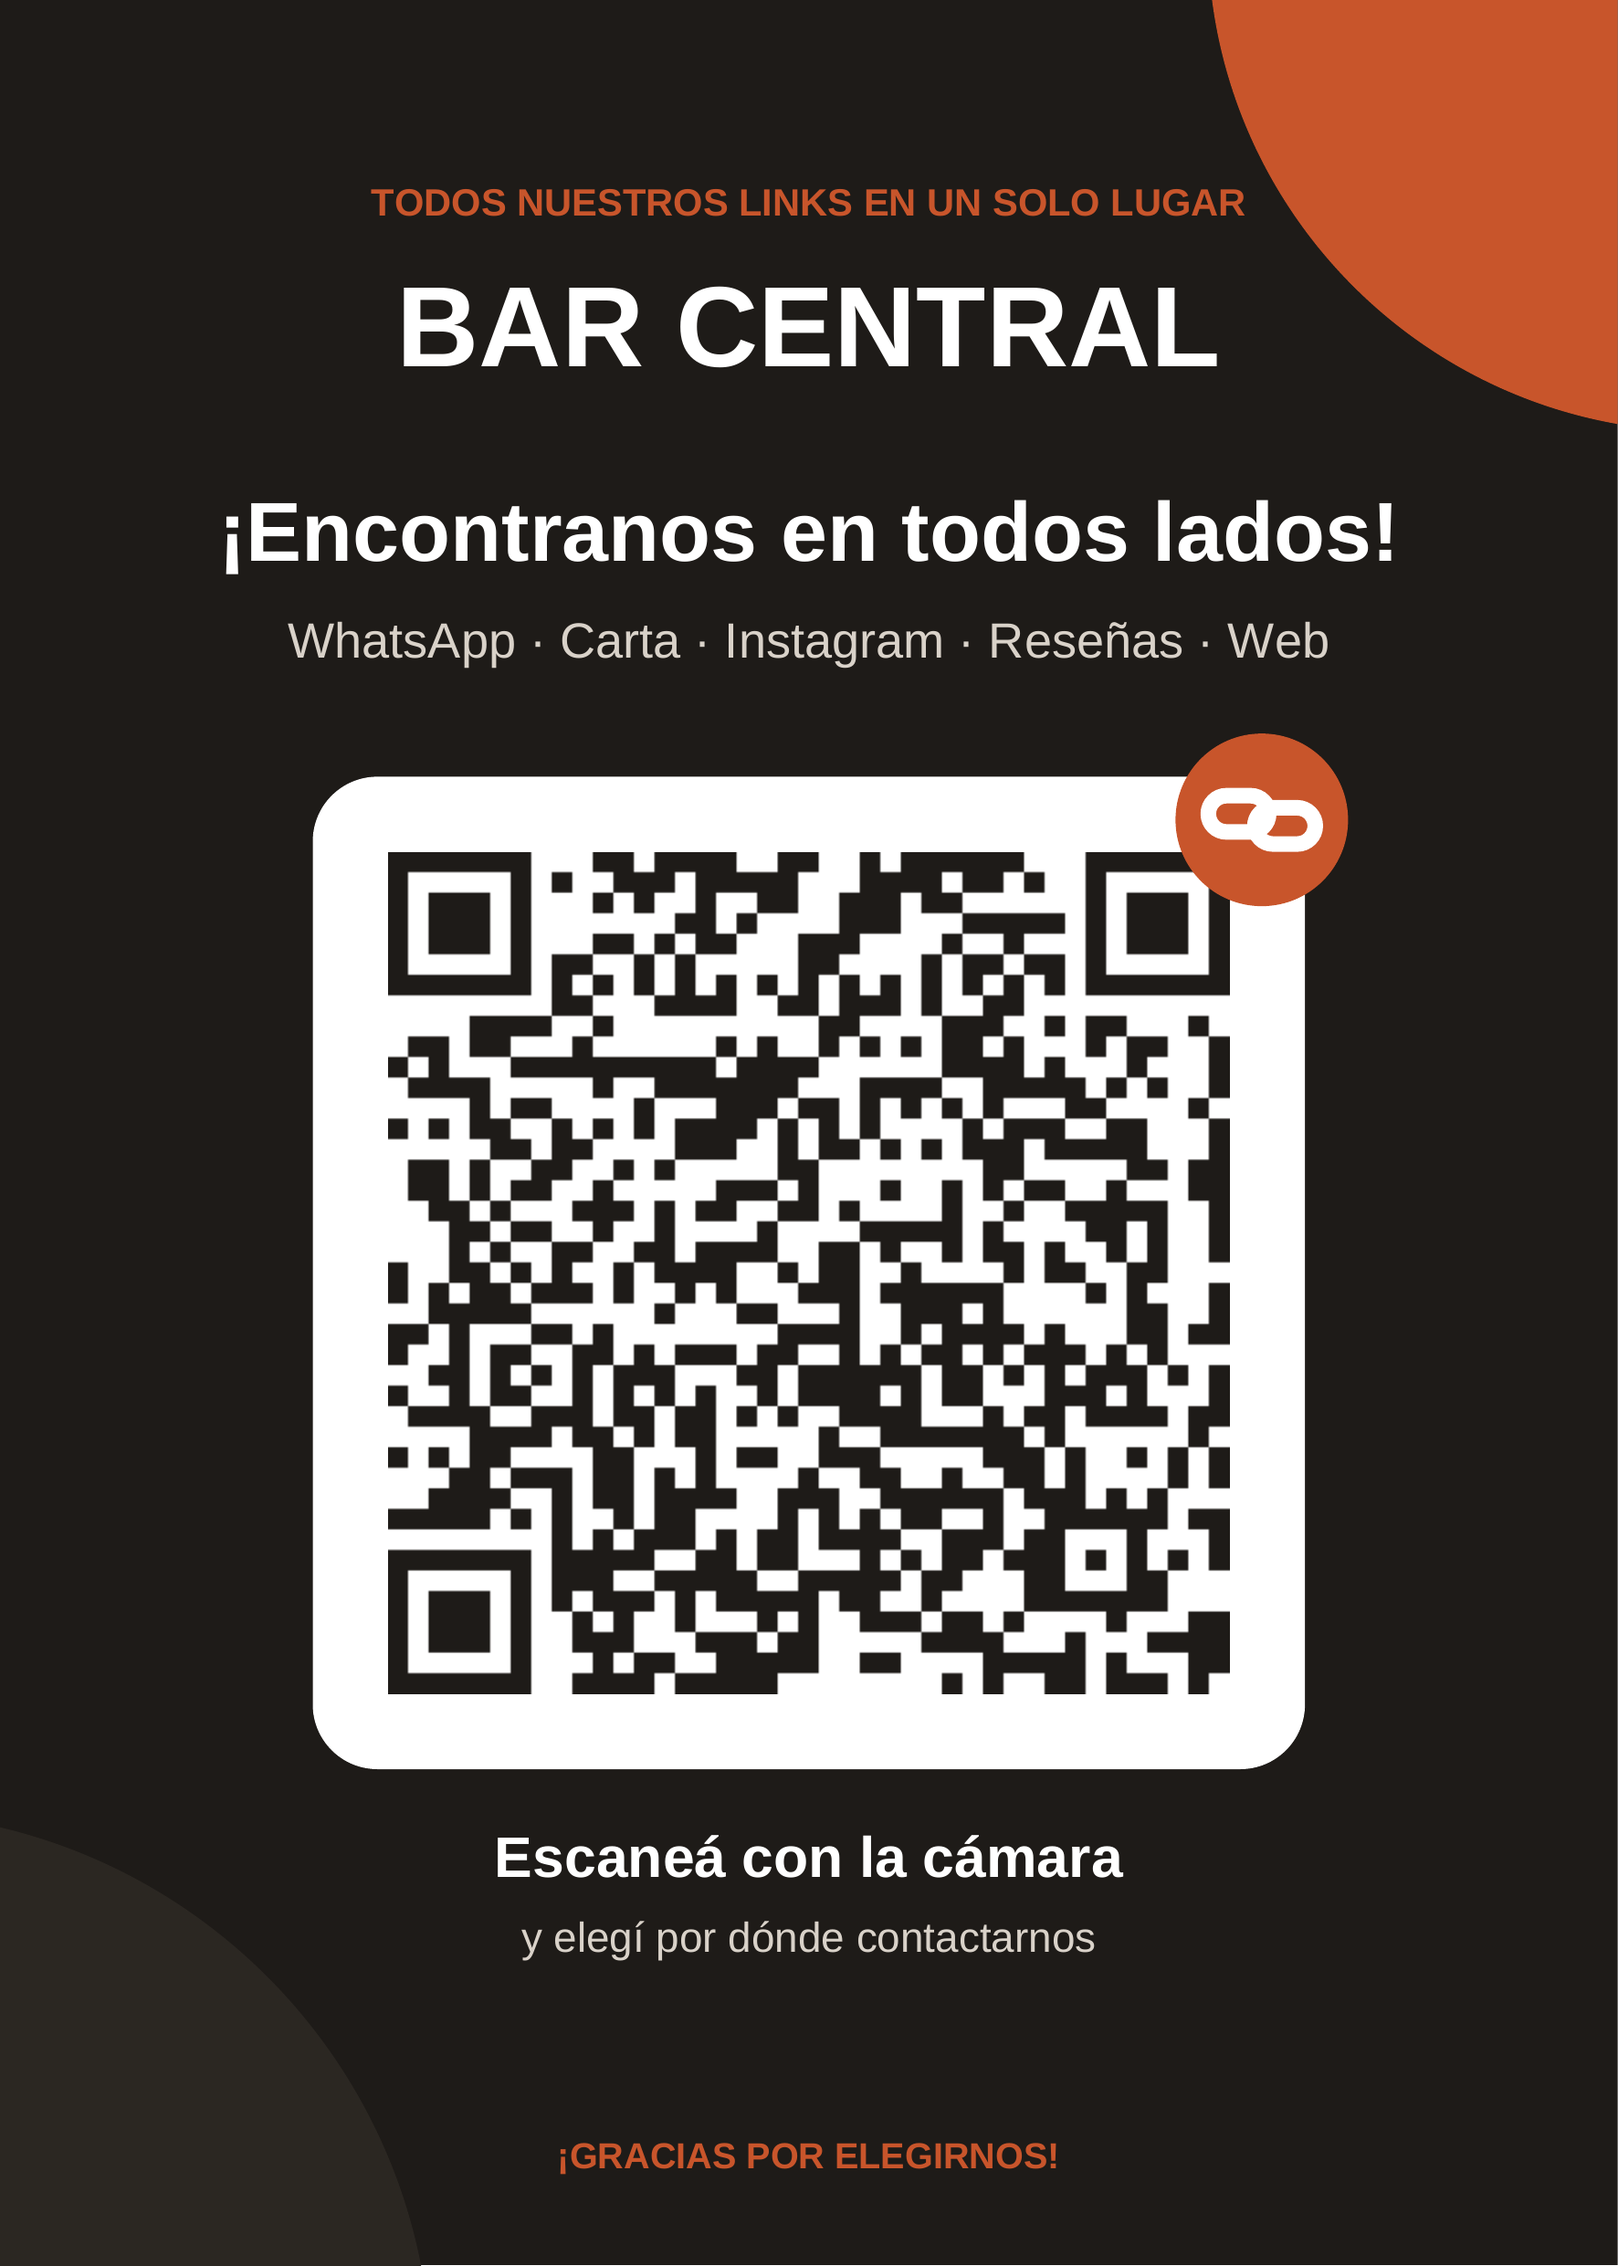
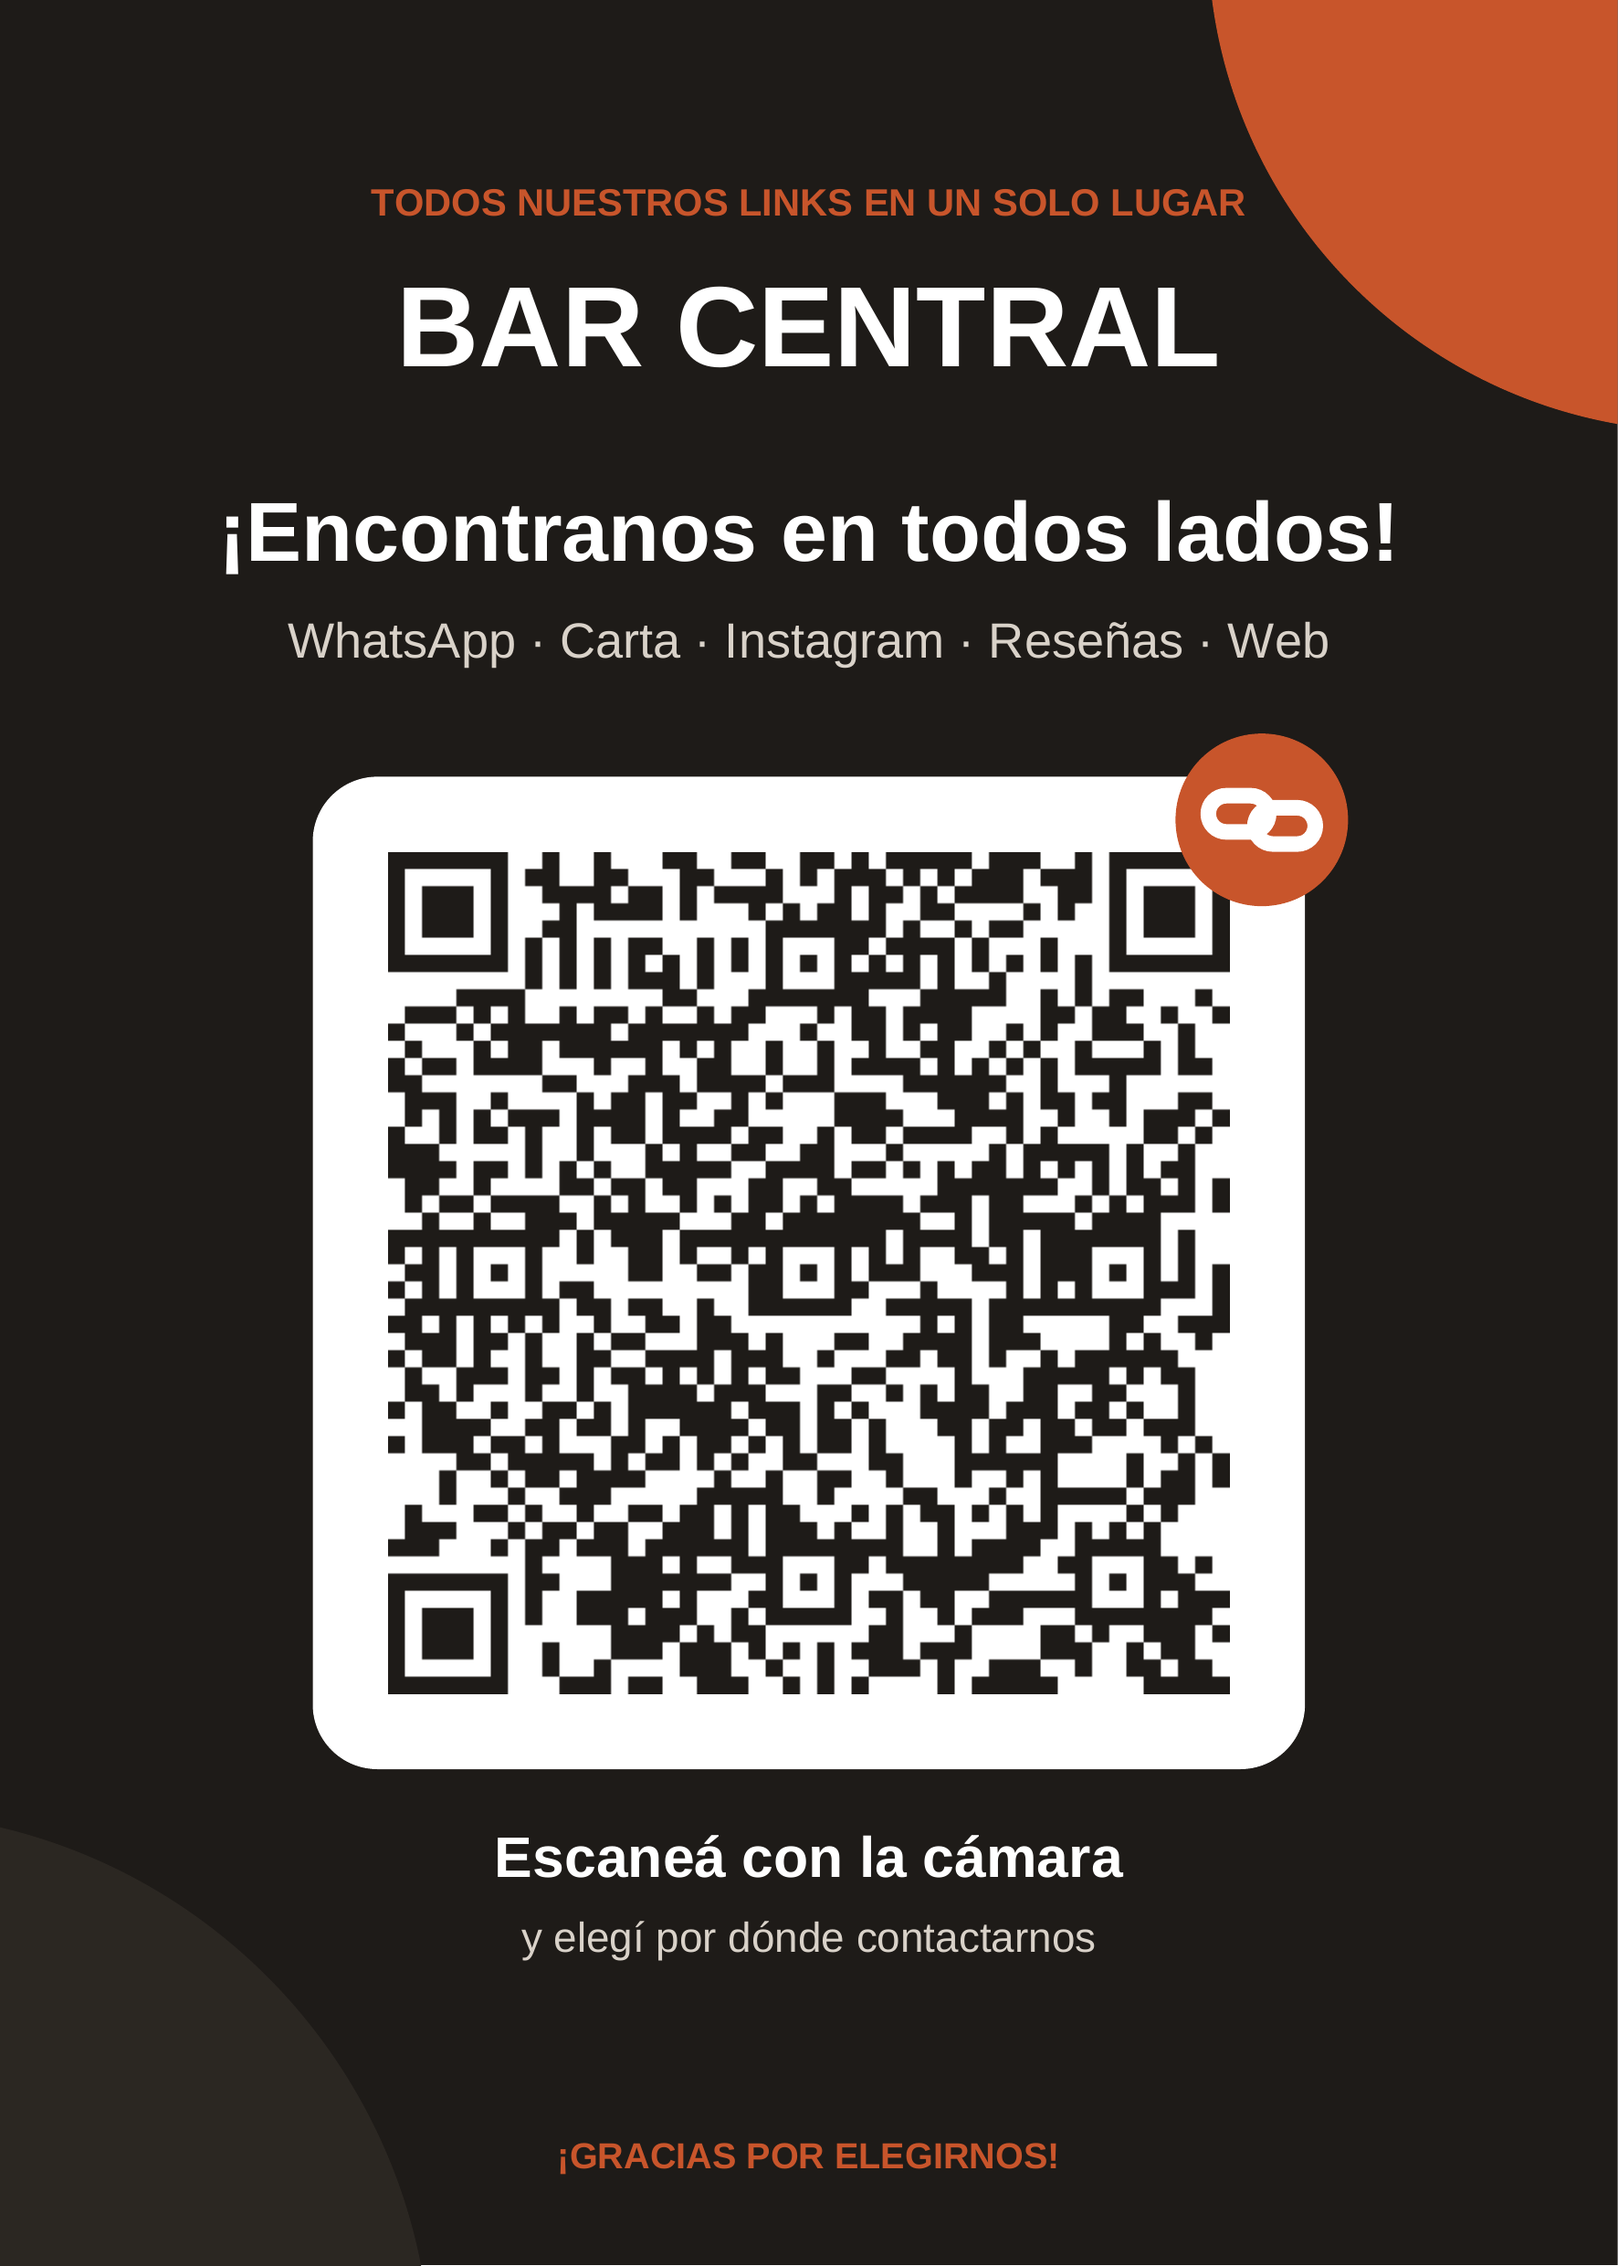
Repo renombrado a GS-Servicios-Digitales: cartel demo con URL nueva

Changed region(s): [[0.2173, 0.3724, 0.776, 0.7449]]

diff --git a/README.md b/README.md
@@ -1,10 +1,10 @@
-# links
+# GS-Servicios-Digitales
 
 Archivo de clientes del Kit QR. Una carpeta por comercio, servida con GitHub Pages.
 
 | Cliente | Página | Contenido |
 |---|---|---|
-| Cliente demo (Bar Central, ficticio) | https://giannsalva.github.io/links/cliente-demo/ | `config.json`, `index.html`, `carteles/` |
+| Cliente demo (Bar Central, ficticio) | https://giannsalva.github.io/GS-Servicios-Digitales/cliente-demo/ | `config.json`, `index.html`, `carteles/` |
 
 Estructura por cliente:
 
@@ -19,5 +19,5 @@ Herramientas en `_tools/`:
 
 ```
 python3 _tools/pagina_links.py <slug>/config.json <slug>/index.html --standalone
-python3 _tools/cartel_qr.py --nombre "Nombre" --tipo links --url "https://giannsalva.github.io/links/<slug>/" --out <slug>/carteles/cartel-links-<slug>.pdf
+python3 _tools/cartel_qr.py --nombre "Nombre" --tipo links --url "https://giannsalva.github.io/GS-Servicios-Digitales/<slug>/" --out <slug>/carteles/cartel-links-<slug>.pdf
 ```
